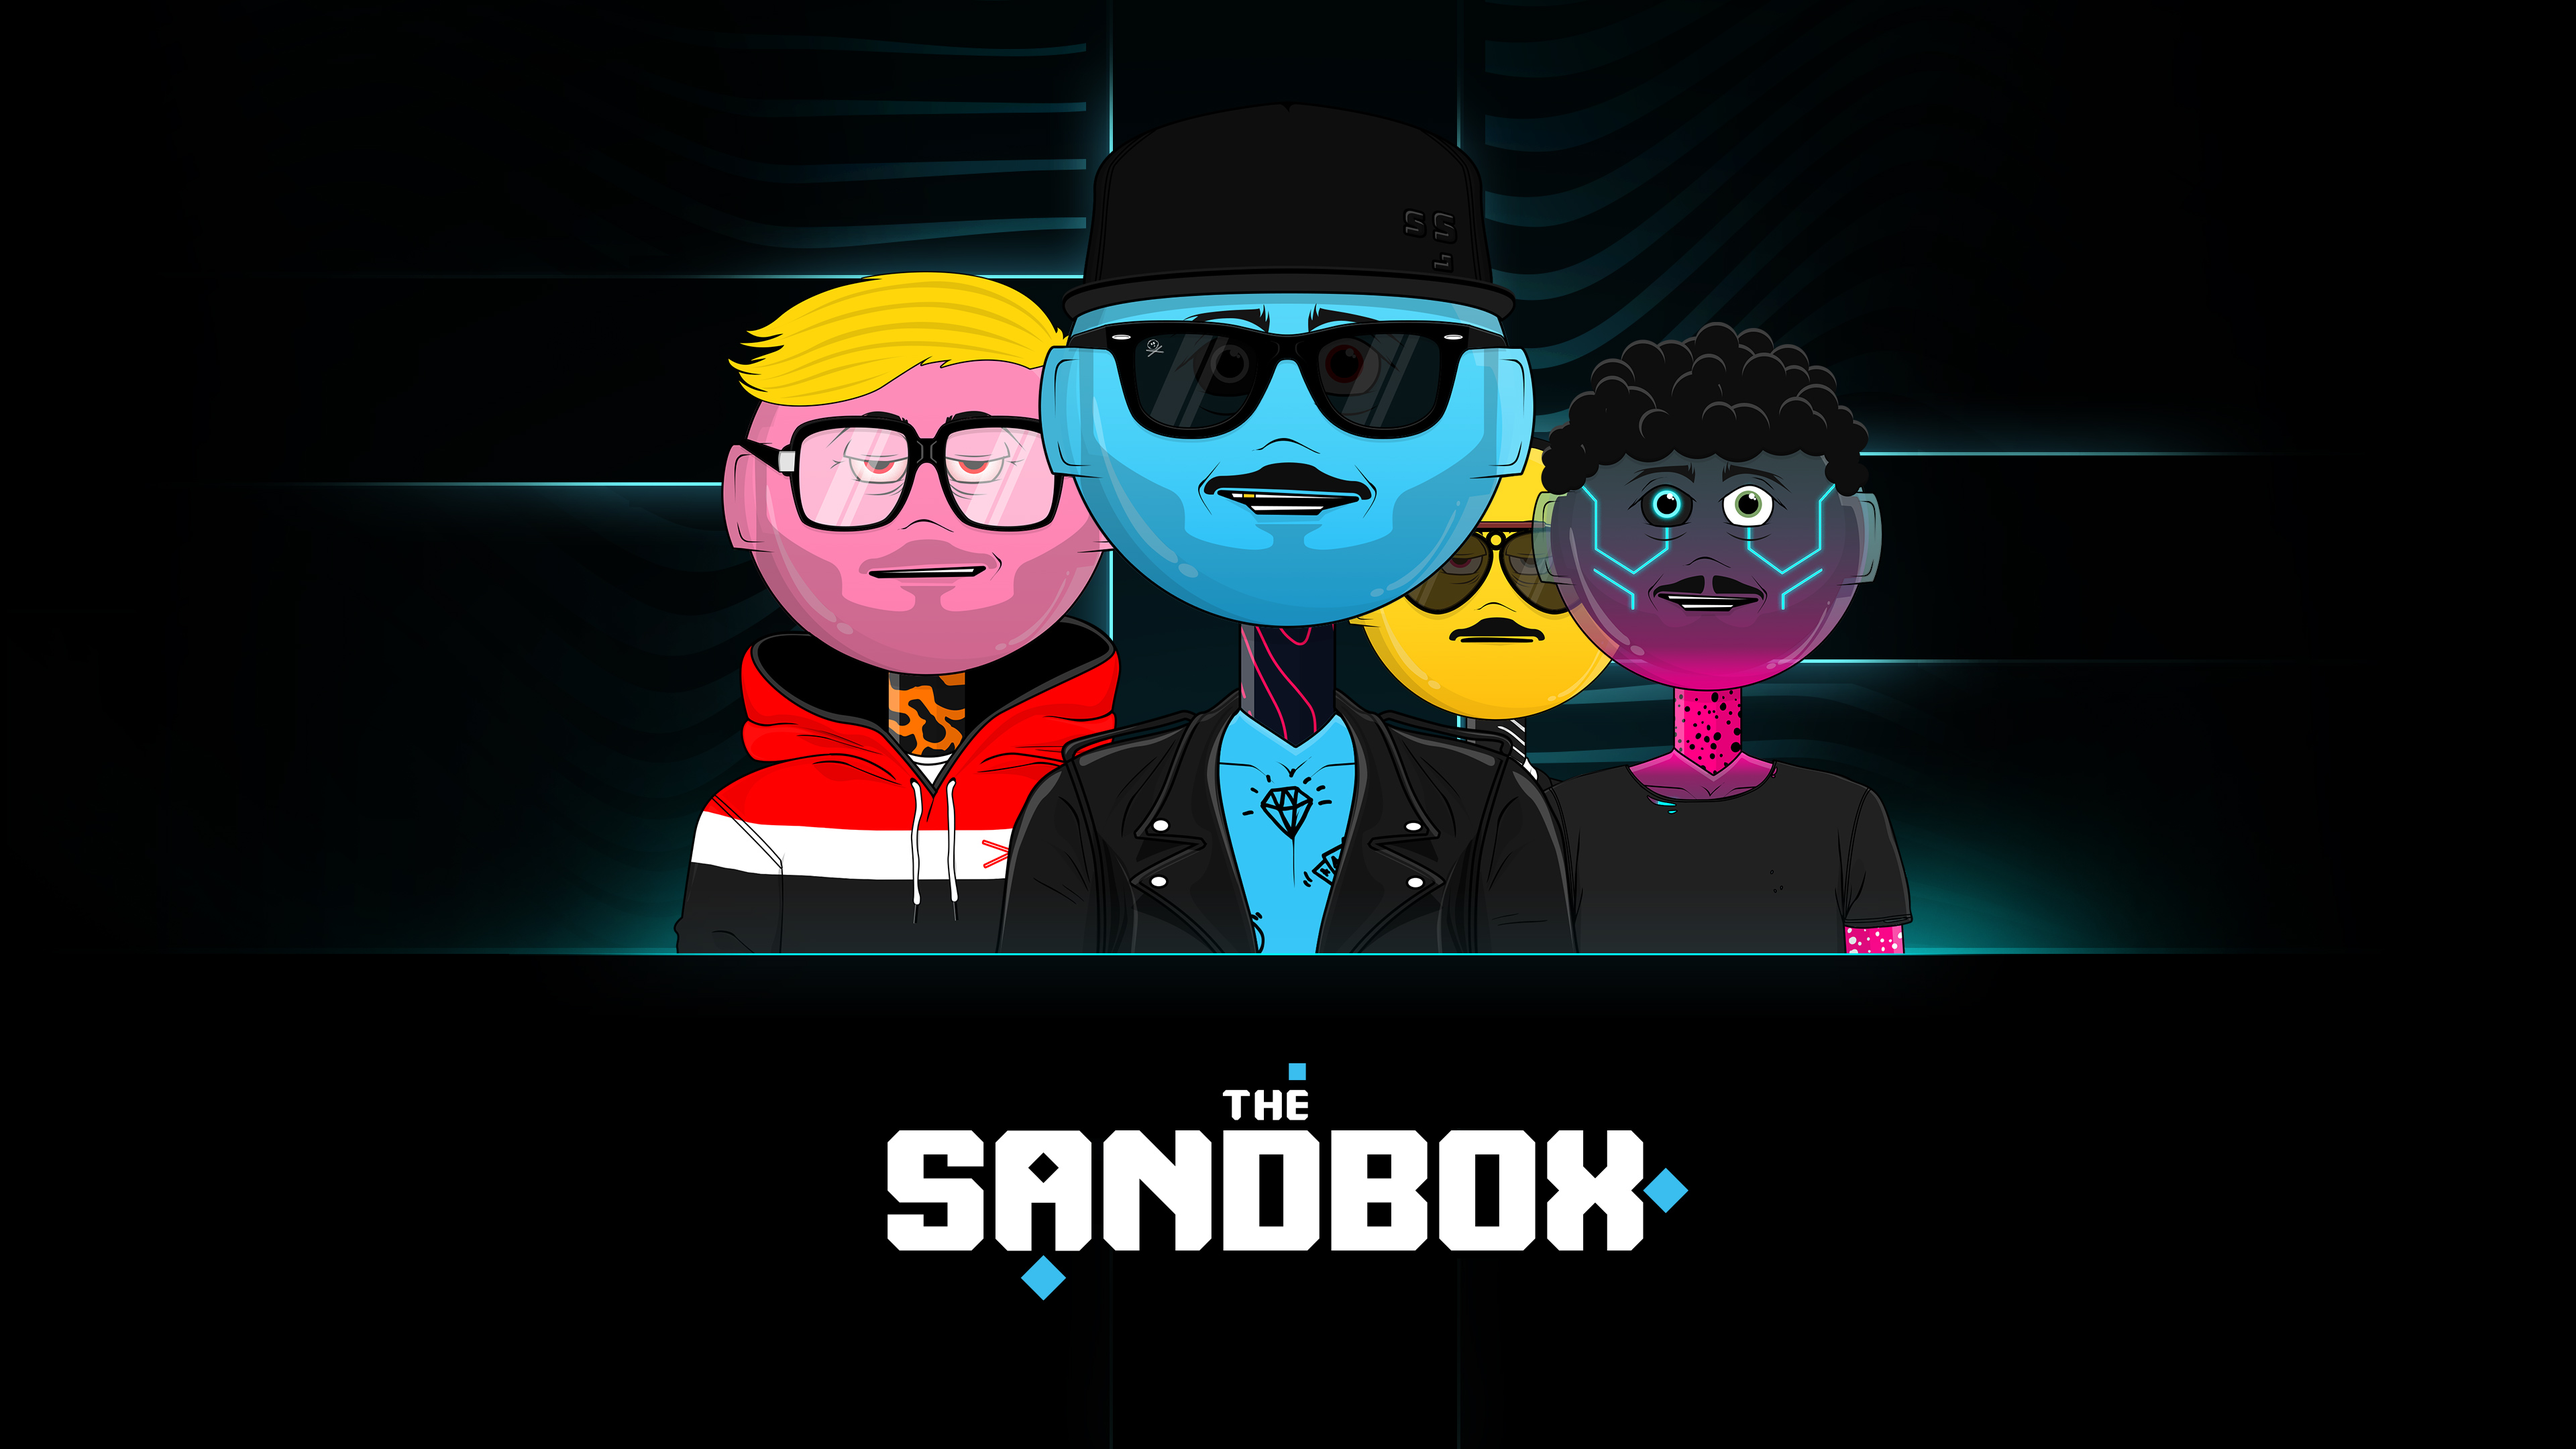
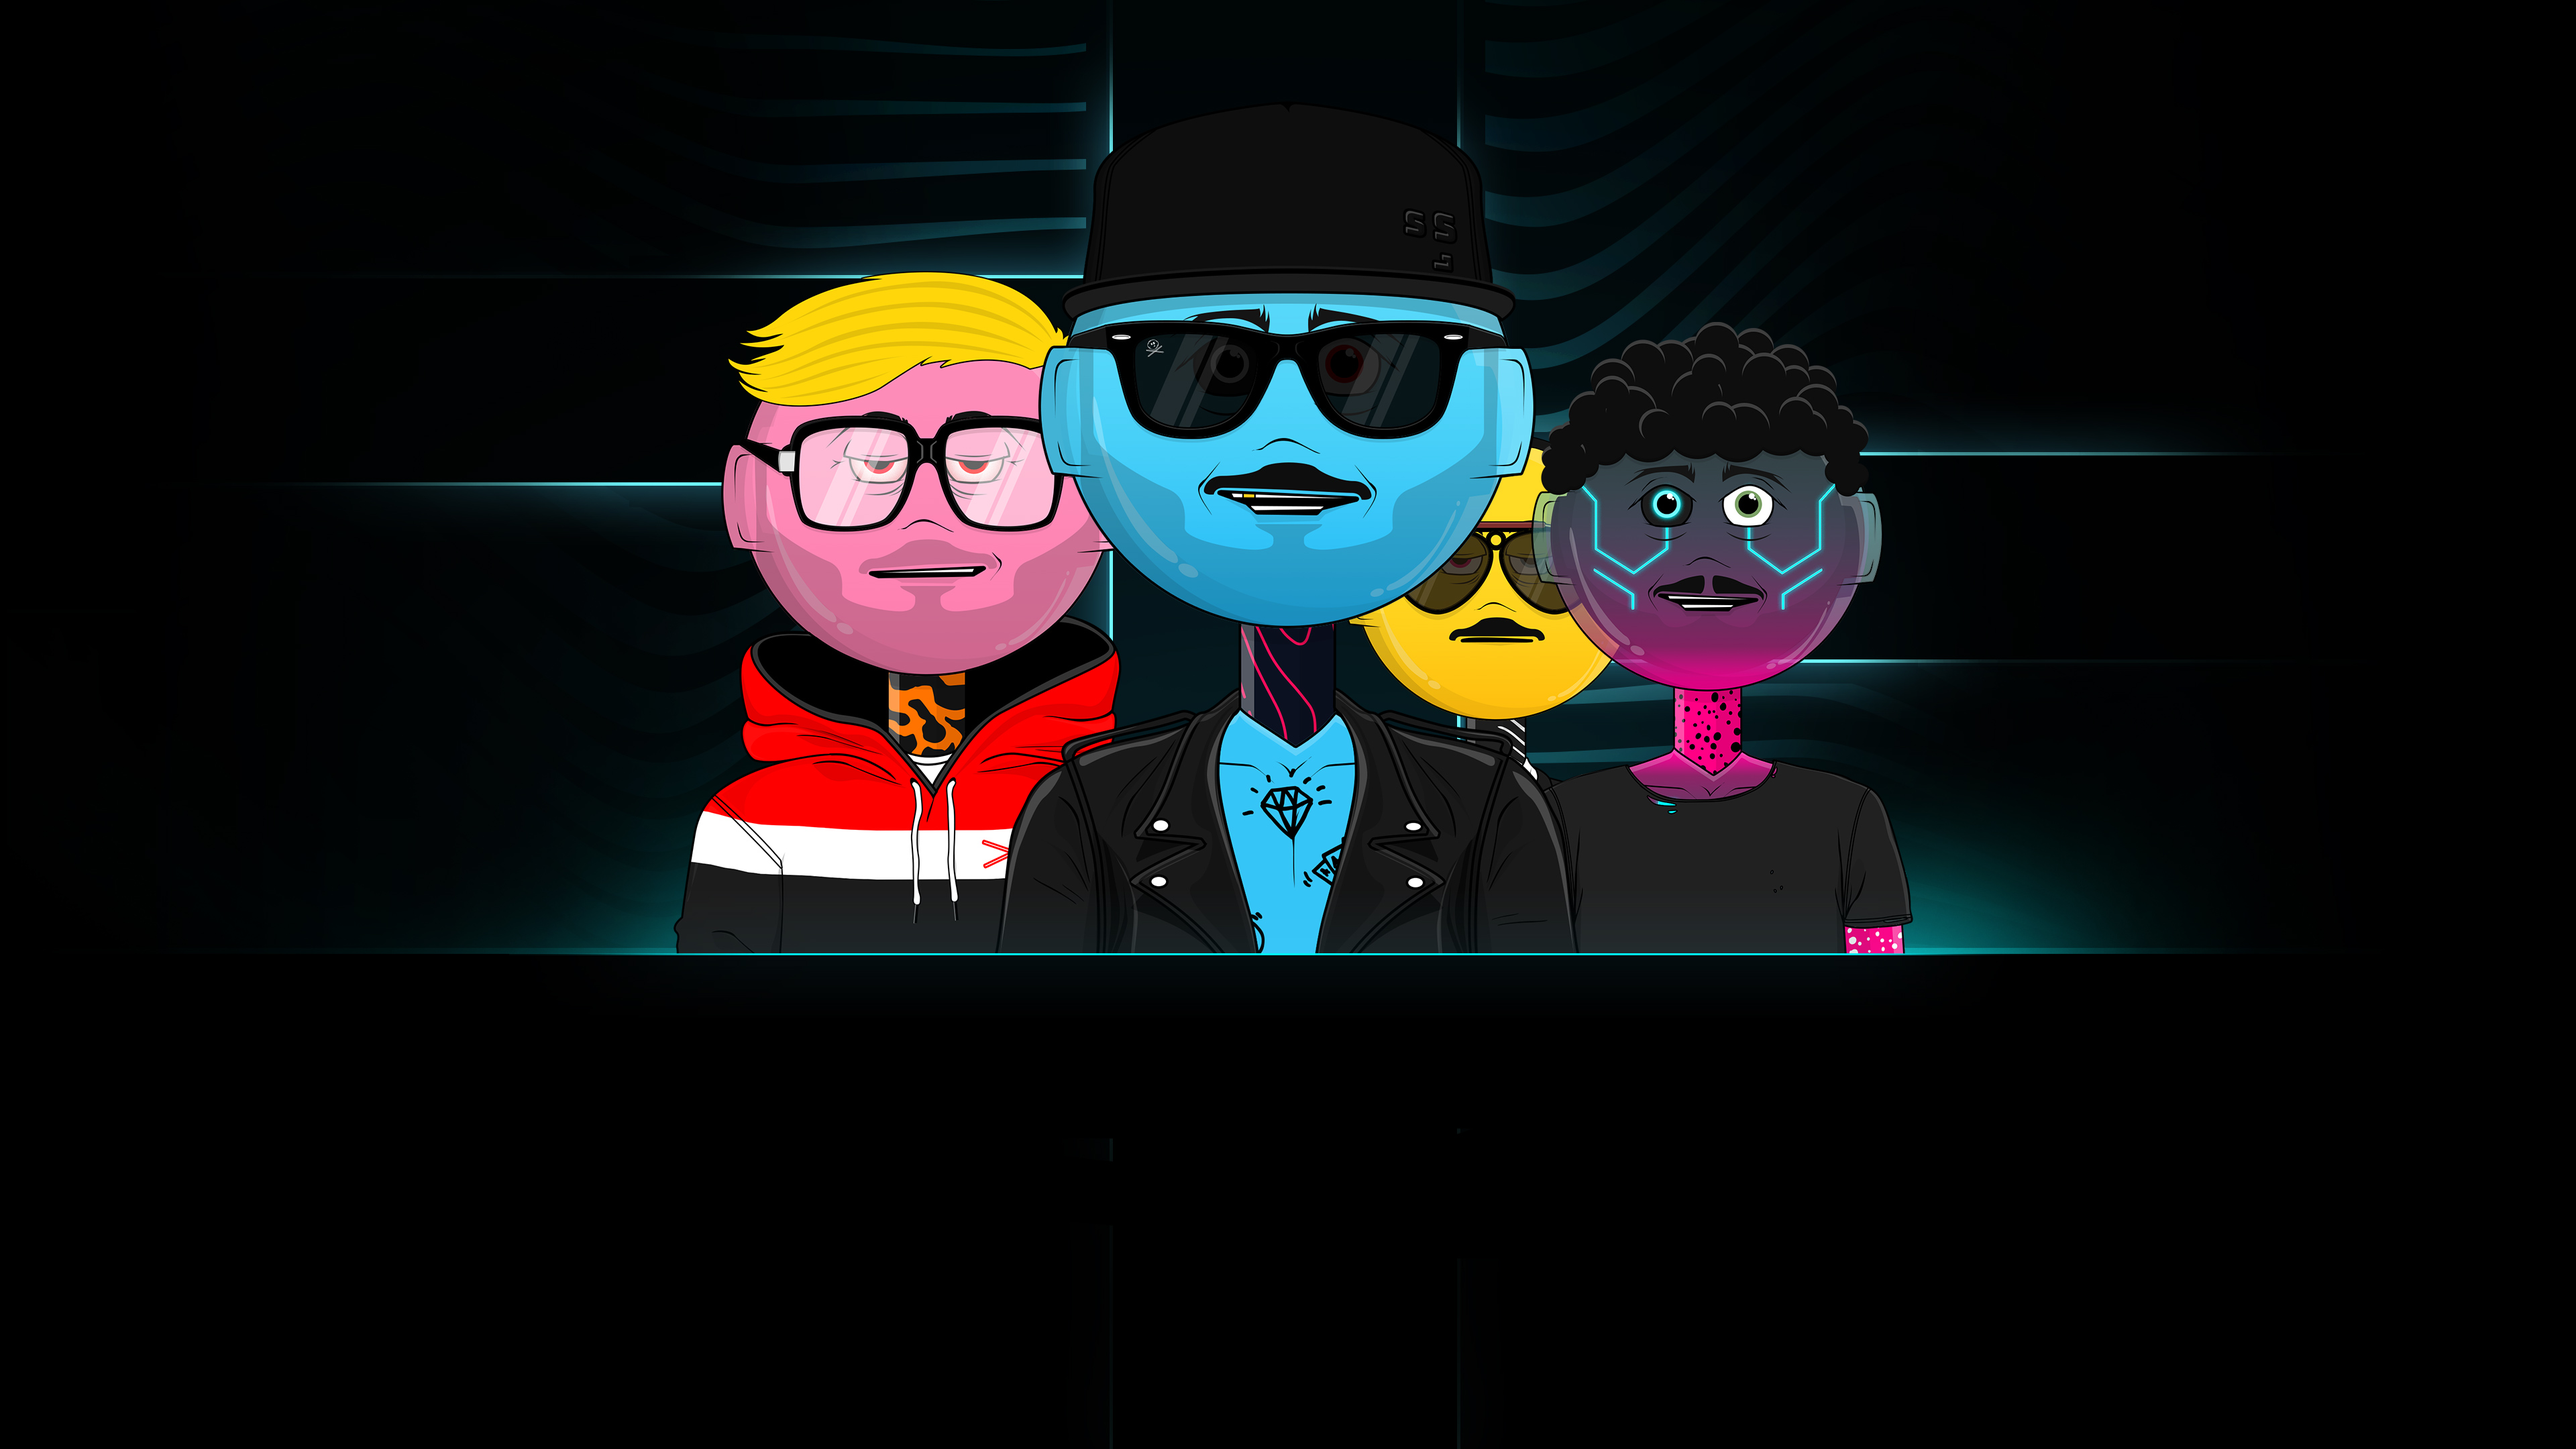
sandbox1

Changed region(s): [[0.3438, 0.7444, 0.6562, 0.8995]]

diff --git a/index.html b/index.html
@@ -58,6 +58,7 @@
     <section class="container">
       <div class="owner-status"></div>
       <div class="countdown">
+        <img src="images/sandbox/TheSandboxLogo.svg" alt="Twitter" width="20" height="20" />
       <h1>COMING SOON</h1>
         <a href="https://discord.gg/ethM2eUrZ4" target="_blank" rel="noopener noreferrer" class="hero-btn btn"
           ><span>JOIN THE LICK COMMUNITY</span>
